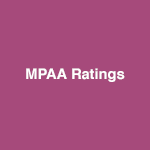
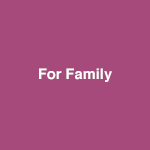
changed category.html

Changed region(s): [[0.16, 0.4533, 0.8533, 0.56]]

diff --git a/categories.html b/categories.html
@@ -34,6 +34,7 @@
                         <a href=""><img src="images/cate2.png" alt="" class="circle"></a>
                         <a href=""><img src="images/cate3.png" alt="" class="circle"></a>
                         <a href=""><img src="images/cate4.png" alt="" class="circle"></a>
+                        <a href=""><img src="images/cate5.png" alt="" class="circle"></a>
                     <!-- <a href="" class="btn btn-large pink darken-4">MPAA Ratings</a> -->
                   <!--   <a href="" class="btn btn-large pink darken-4">Popular & Nonmajor Companies</a> -->
                     </div>
@@ -43,10 +44,11 @@
                     </div>
                     <br> -->
                     <div class="row2">
-                        <a href=""><img src="images/cate5.png" alt="" class="circle"></a>
                         <a href=""><img src="images/cate6.png" alt="" class="circle"></a>
                         <a href=""><img src="images/cate7.png" alt="" class="circle"></a>
                         <a href=""><img src="images/cate8.png" alt="" class="circle"></a>
+                        <a href=""><img src="images/cate10.png" alt="" class="circle"></a>
+                        <a href=""><img src="images/cate9.png" alt="" class="circle"></a>
                   <!--   <a href="" class="btn btn-large pink darken-4">Most Profitable</a>
                     <a href="" class="btn btn-large pink darken-4">Exotic Choices</a> -->
                     </div>
